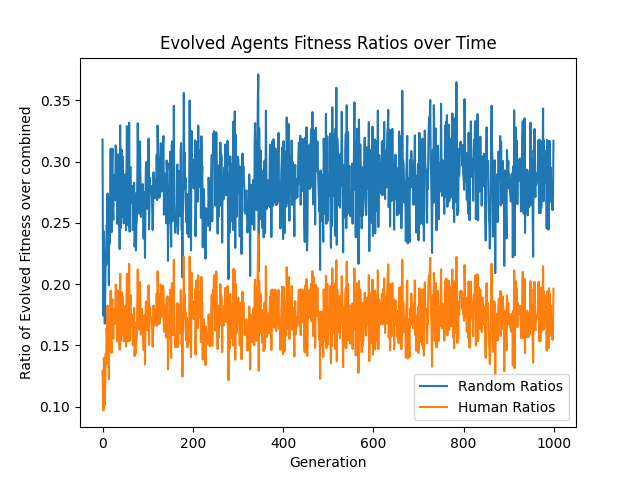
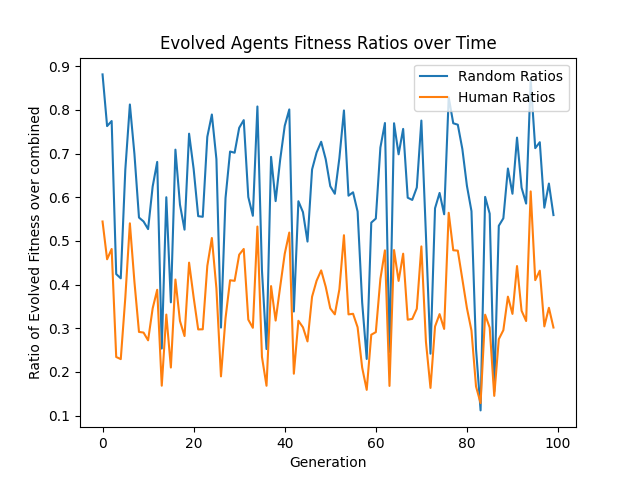
Prisoners GA

diff --git a/GA.py b/GA.py
@@ -16,10 +16,11 @@ import time
 import CustomAgents
 import matplotlib.pyplot as plt
 import RoundRobin
+import CustomPrisoners
 
 MAX_HEIGHT = 4
 TIMETHRES = 2
-def evaluate(agents, num_tours, dontation = True, debug = False):
+def evaluate(agents, num_tours,debug = False, donation = True):
     """
     averaging the results of multiple tournaments
     with the same collection of agents
@@ -32,20 +33,18 @@ def evaluate(agents, num_tours, dontation = True, debug = False):
             timer = time.perf_counter() - start_time
             if(timer > TIMETHRES):
                 print("Tourament", i)
-        if dontation:
+        if donation:
             Tournament.run_2players(agents, debug = debug)
         else:
             RoundRobin.round_robin(agents)
     for a in agents:
         a.fitness.values = a.savings / num_tours,
 
-def average_savings(pop, donations = True):
+
+def average_savings(pop, donation = True):
     s = 0
     for a in pop:
-        if donations:
             s += a.savings
-        else:
-            s += a.fitness
     return s / len(pop)
 
 def pop_v_pop(pop1, pop2, num_tours, donation = True):
@@ -57,7 +56,7 @@ def pop_v_pop(pop1, pop2, num_tours, donation = True):
             RoundRobin.round_robin(total)
     for a in total:
         a.savings = a.savings / num_tours
-    return average_savings(pop1), average_savings(pop2)
+    return average_savings(pop1, donation), average_savings(pop2, donation)
 
 def reset(agents):
     """
@@ -87,6 +86,8 @@ class GA:
 
         if (donation):
             self.BuildDonationTools(rand_agents, human_agents)
+        else:
+            self.BuildPrisonTools(rand_agents, human_agents)
 
 
     def BuildDonationTools(self, rand_agents, human_agents):
@@ -109,8 +110,8 @@ class GA:
         self.toolbox.register("population", tools.initRepeat, list, self.toolbox.individual, self.pop_size)
 
         # toolbox.register("tourament", creator.Tourament, )
-        self.toolbox.register("evaluate", evaluate, num_tours=30, donation = False)  # <- set up method or evaluation
-        self.toolbox.register("pop_v_pop", pop_v_pop, num_tours = 10, donation = False)
+        self.toolbox.register("evaluate", evaluate, num_tours=30, donation = True)  # <- set up method or evaluation
+        self.toolbox.register("pop_v_pop", pop_v_pop, num_tours = 10, donation = True)
         self.toolbox.register("select", tools.selTournament,
                               tournsize=3)  # <- select indivuals from a tourment style thingy
         self.toolbox.register("mate", a.mate, max_height=MAX_HEIGHT, toolbox=self.toolbox)
@@ -136,24 +137,22 @@ class GA:
     def BuildPrisonTools(self, rand_agents, human_agents):
         creator.create("FitnessMax", base.Fitness, weights=(1.0,))
         creator.create("Individual", p.PrisonerAgent, fitness=creator.FitnessMax)
-        creator.create("RandomAgent", CustomAgents.RandAgent, fitness=creator.FitnessMax)
-        creator.create("GenerousAgent", CustomAgents.GenerousAgent, fitness=creator.FitnessMax)
-        creator.create("StingyAgent", CustomAgents.StingyAgent, fitness=creator.FitnessMax)
-        creator.create("TitForTatAgent", CustomAgents.TitForTatAgent, fitness=creator.FitnessMax)
-        creator.create("AveragingAgent", CustomAgents.AveragingAgent, fitness=creator.FitnessMax)
-        creator.create("VengfulAgent", CustomAgents.VengefulAgent, fitness=creator.FitnessMax)
+        creator.create("RandomAgent", CustomPrisoners.RandomPrisoner, fitness=creator.FitnessMax)
+        creator.create("AlwaysCoop", CustomPrisoners.AlwaysCoop, fitness=creator.FitnessMax)
+        creator.create("AlwaysDefect", CustomPrisoners.AlwaysDefect, fitness=creator.FitnessMax)
+        creator.create("TitForTat", CustomPrisoners.TitForTat, fitness=creator.FitnessMax)
         # creator.create("Tourament", Tournament.Tournament)
 
         self.toolbox = base.Toolbox()
         self.toolbox.register("individual", creator.Individual, max_height=MAX_HEIGHT)
         self.toolbox.register("random", creator.RandomAgent)
         self.toolbox.register("human",
-                              random.choice([creator.GenerousAgent, creator.StingyAgent, creator.TitForTatAgent,
-                                             creator.AveragingAgent, creator.VengfulAgent]))
+                              random.choice([creator.AlwaysCoop, creator.AlwaysDefect, creator.TitForTat]))
         self.toolbox.register("population", tools.initRepeat, list, self.toolbox.individual, self.pop_size)
 
         # toolbox.register("tourament", creator.Tourament, )
-        self.toolbox.register("evaluate", evaluate, num_tours=30)  # <- set up method or evaluation
+        self.toolbox.register("evaluate", evaluate, num_tours=30, donation = False)  # <- set up method or evaluation
+        self.toolbox.register("pop_v_pop", pop_v_pop, num_tours=10, donation=False)
         self.toolbox.register("select", tools.selTournament,
                               tournsize=3)  # <- select indivuals from a tourment style thingy
         self.toolbox.register("mate", a.mate, max_height=MAX_HEIGHT, toolbox=self.toolbox)
@@ -189,7 +188,7 @@ class GA:
         """
         gen = 0
         pop = self.toolbox.population()
-        self.random_test = [CustomAgents.RandAgent() for i in range(int(self.pop_size/2))]
+        self.random_test = [self.toolbox.random() for i in range(int(self.pop_size/2))]
         self.human_test = [self.toolbox.human() for i in range(int(self.pop_size / 2))]
         self.toolbox.evaluate(pop + self.rand_agents + self.human_agents, debug=debug)
 
@@ -236,9 +235,9 @@ class GA:
 
             best = self.toolbox.top_half(pop)
 
-            avg_agent, avg_rand = pop_v_pop(best, self.random_test, 30)
+            avg_agent, avg_rand = self.toolbox.pop_v_pop(best, self.random_test)
             rand_ratio = avg_agent / (avg_agent + avg_rand) # greater then %50 if better
-            avg_agent2, avg_human = pop_v_pop(best, self.human_test, 30)
+            avg_agent2, avg_human = self.toolbox.pop_v_pop(best, self.human_test)
             human_ratio = avg_agent2 / (avg_agent2 + avg_human)
 
 
@@ -253,10 +252,10 @@ class GA:
                 if gen % 20 == 0:
                     best = self.toolbox.top_half(pop)
 
-                    avg_agent, avg_rand = pop_v_pop(best, self.random_test, 30)
+                    avg_agent, avg_rand = self.toolbox.pop_v_pop(best, self.random_test)
                     print("Agent Average:", avg_agent, "Random Average:", avg_rand)
 
-                    avg_agent, avg_human = pop_v_pop(best, self.human_test, 30)
+                    avg_agent, avg_human = self.toolbox.pop_v_pop(best, self.human_test)
                     print("Agent Average:", avg_agent, "Human Average:", avg_human)
 
             self.toolbox.reset(pop)
@@ -265,28 +264,28 @@ class GA:
 
 
 if __name__ == "__main__":
-    ga = GA(1024, 0.3, 0.3, 100, rand_agents = 300, human_agents= 300)
-    pop, log, toolbox = ga.run(1000, True)
+    ga = GA(30, 0.3, 0.3, 1, rand_agents = 20, human_agents= 20, donation = False)
+    pop, log, toolbox = ga.run(100, True)
     #get top half
     best = toolbox.top_half(pop)
-    random = [CustomAgents.RandAgent() for i in range(len(best))]
+    random = [toolbox.random() for i in range(len(best))]
     human = [toolbox.human() for i in range(len(best))]
 
     #pickle population
     pop_trees = [agent.tree for agent in pop]
-    pickle.dump(pop_trees, open("LastGeneration.p", "wb"))
+    pickle.dump(pop_trees, open("Prisoners.p", "wb"))
 
     print()
     print("-------------------FINAL EVALUATIONS -------------------")
     print()
 
     #run random trials
-    avg_agent, avg_rand = pop_v_pop(best, random, 50)
+    avg_agent, avg_rand = pop_v_pop(best, random, 50, donation = False)
     print("Agent Average:", avg_agent, "Random Average:", avg_rand)
-    avg_agent, avg_human = pop_v_pop(best, human, 50)
+    avg_agent, avg_human = pop_v_pop(best, human, 50, donation = False)
     print("Agent Average:", avg_agent, "Human Average:", avg_human)
 
-    avg_rand, avg_human = pop_v_pop(random, human, 50)
+    avg_rand, avg_human = pop_v_pop(random, human, 50, donation = False)
     print("Random Average:", avg_rand, "Human Average:", avg_human)
 
     #display results
@@ -297,7 +296,7 @@ if __name__ == "__main__":
     plt.xlabel("Generation")
     plt.legend()
     #plt.show()
-    plt.savefig('FitnessOverTime.png')
+    plt.savefig('PrisonersFitness.png')
 
     #display an agent
     print(best[0].tree)

diff --git a/CustomPrisoners.py b/CustomPrisoners.py
@@ -13,7 +13,7 @@ class RandomPrisoner:
                 """
 
         # self.alive = True
-        self.fitness = 0
+        self.savings = 0
         self.hist1 = 0
         self.hist2 = 0
         self.hist3 = 0
@@ -27,10 +27,10 @@ class RandomPrisoner:
         :return: a boolean: True for cooperation,
         False for defect
         """
-        return random.choice([True, False])
+        return random.choice([0, 1])
 
     def reset(self):
-        self.fitness = 0
+        self.savings = 0
         self.hist1 = 0
         self.hist2 = 0
         self.hist3 = 0
@@ -40,7 +40,7 @@ class RandomPrisoner:
         add specified amount to the agent's fitness
         :param amount: the value to add to agent's total fitness
         """
-        self.fitness += amount
+        self.savings += amount
 
 
 class AlwaysDefect:
@@ -56,7 +56,7 @@ class AlwaysDefect:
                 """
 
         # self.alive = True
-        self.fitness = 0
+        self.savings = 0
         self.hist1 = 0
         self.hist2 = 0
         self.hist3 = 0
@@ -70,10 +70,10 @@ class AlwaysDefect:
         :return: a boolean: True for cooperation,
         False for defect
         """
-        return random.choice([True, False])
+        return 0
 
     def reset(self):
-        self.fitness = 0
+        self.savings = 0
         self.hist1 = 0
         self.hist2 = 0
         self.hist3 = 0
@@ -83,4 +83,91 @@ class AlwaysDefect:
         add specified amount to the agent's fitness
         :param amount: the value to add to agent's total fitness
         """
-        self.fitness += amount
+        self.savings += amount
+
+class AlwaysCoop:
+    def __init__(self):
+        """
+                Either create a new agent given a tree or
+                create a random tree
+
+                initialize starting variables
+                :param min_height: minimum tree depth complexity
+                :param max_height: maximum tree depth complexity
+                :param tree: the algorithmic tree to copy onto the agent, must use same primative set
+                """
+
+        # self.alive = True
+        self.savings = 0
+        self.hist1 = 0
+        self.hist2 = 0
+        self.hist3 = 0
+
+    def decide(self, other, turn):
+        """
+        determines whether or not the PrisonerAgent
+        cooperates or defects
+        :param other: the opponent PrisonerAgent
+        :param turn: the turn number
+        :return: a boolean: True for cooperation,
+        False for defect
+        """
+        return 1
+
+    def reset(self):
+        self.savings = 0
+        self.hist1 = 0
+        self.hist2 = 0
+        self.hist3 = 0
+
+    def add_fitness(self, amount):
+        """
+        add specified amount to the agent's fitness
+        :param amount: the value to add to agent's total fitness
+        """
+        self.savings += amount
+
+class TitForTat:
+    def __init__(self):
+        """
+                Either create a new agent given a tree or
+                create a random tree
+
+                initialize starting variables
+                :param min_height: minimum tree depth complexity
+                :param max_height: maximum tree depth complexity
+                :param tree: the algorithmic tree to copy onto the agent, must use same primative set
+                """
+
+        # self.alive = True
+        self.savings = 0
+        self.hist1 = 0
+        self.hist2 = 0
+        self.hist3 = 0
+
+    def decide(self, other, turn):
+        """
+        determines whether or not the PrisonerAgent
+        cooperates or defects
+        :param other: the opponent PrisonerAgent
+        :param turn: the turn number
+        :return: a boolean: True for cooperation,
+        False for defect
+        """
+        if turn == 0:
+            return 1
+        else:
+            return other.hist1
+
+    def reset(self):
+        self.savings = 0
+        self.hist1 = 0
+        self.hist2 = 0
+        self.hist3 = 0
+
+    def add_fitness(self, amount):
+        """
+        add specified amount to the agent's fitness
+        :param amount: the value to add to agent's total fitness
+        """
+        self.savings += amount

diff --git a/PrisonerAgent.py b/PrisonerAgent.py
@@ -38,7 +38,7 @@ class PrisonerAgent:
         self.runTree = gp.compile(self.tree, self.pset)
 
         # self.alive = True
-        self.fitness = 0
+        self.savings = 0
         self.hist1 = 0
         self.hist2 = 0
         self.hist3 = 0
@@ -78,7 +78,7 @@ class PrisonerAgent:
         return decision
 
     def reset(self):
-        self.fitness = 0
+        self.savings = 0
         self.hist1 = 0
         self.hist2 = 0
         self.hist3 = 0
@@ -88,7 +88,7 @@ class PrisonerAgent:
         add specified amount to the agent's fitness
         :param amount: the value to add to agent's total fitness
         """
-        self.fitness += amount
+        self.savings += amount
 
 if __name__ == "__main__":
     agent = PrisonerAgent()

diff --git a/RoundRobin.py b/RoundRobin.py
@@ -24,7 +24,7 @@ def round_fitness(one, two, turn):
     one_decision = round(one.decide(two, turn))
     two_decision = round(two.decide(one, turn))
     if is_valid_decision(one_decision) and is_valid_decision(two_decision):
-        round_result(one_decision, two_decision)
+        round_result(one, two, one_decision, two_decision)
 
 
 def is_valid_decision(decision):

diff --git a/Analysis.py b/Analysis.py
@@ -2,6 +2,9 @@ import Agent
 import math
 import pickle
 from sklearn.cluster import AffinityPropagation
+from deap import tools
+import matplotlib.pyplot as plt
+import Graph
 
 class AnaylizeAgent:
     """
